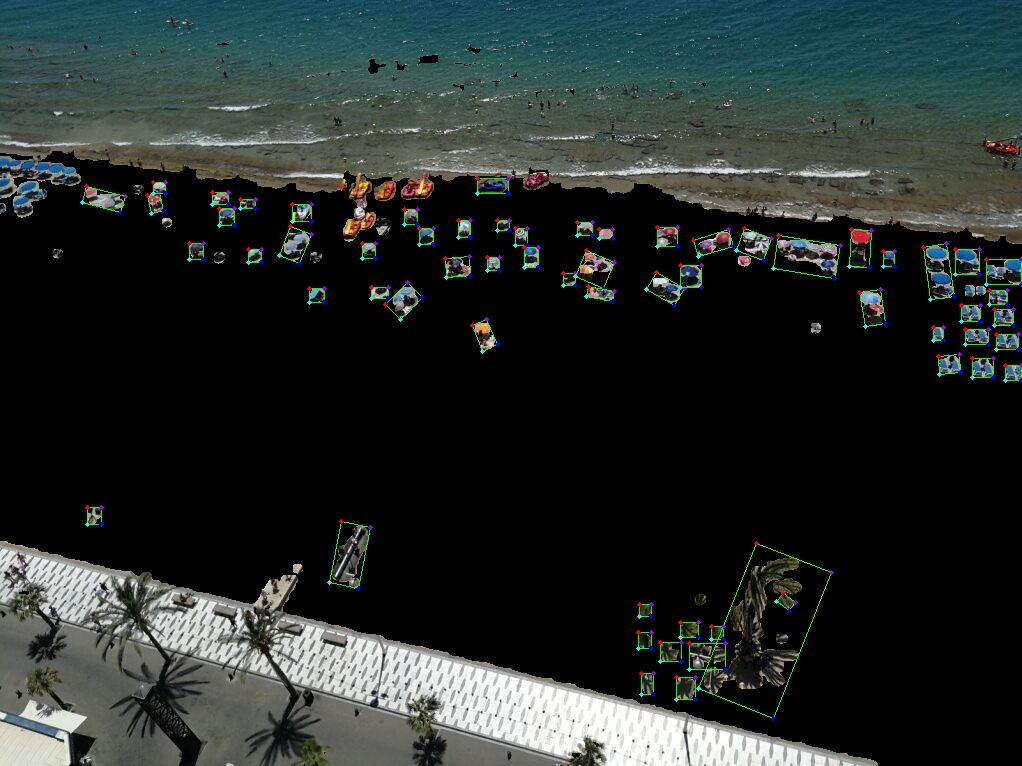
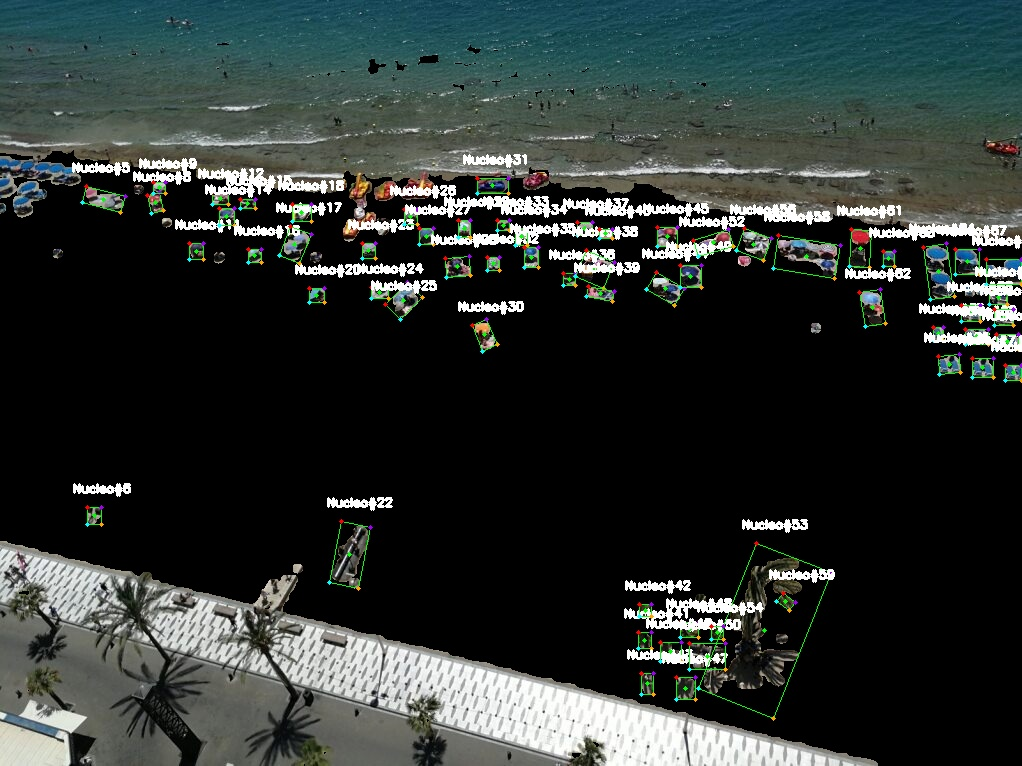
Interfaz

diff --git a/substract_no_centroid.py b/substract_no_centroid.py
@@ -9,6 +9,9 @@ from scipy.spatial import distance as dist
 import PySimpleGUI as sg
 import os
 
+### Global variables for contours
+MIN_CONTOUR_AREA = 100
+MAX_CONTOUR_AREA = 10000
 
 def order_points_old(pts):
     # initialize a list of coordinates that will be ordered
@@ -78,7 +81,7 @@ def get_color_ranges(file):
     }
     return color_ranges.get(file_name, (None, None))
 
-def process_image(file,size,show_object):
+def process_image(file,size,show_object,show_centroid,save_image,show_results):
     # Load image
     img = cv2.imread(file)
     img= cv2.cvtColor(img, cv2.COLOR_BGR2HSV)
@@ -121,13 +124,14 @@ def process_image(file,size,show_object):
     # sort the contours from left-to-right and initialize the bounding box
     # point colors
     (cnts, _) = contours.sort_contours(cnts)
-    colors = ((0, 0, 255), (240, 0, 159), (255, 0, 0), (255, 255, 0))
-
+    #colors = ((0, 0, 255), (240, 0, 159), (255, 0, 0), (255, 255, 0))
+    colors = ((0, 0, 255), (240, 0, 159), (0, 165, 255), (255, 255, 0),
+        (255, 0, 255))
     # loop over the contours individually
     for (i, c) in enumerate(cnts):
         # if the contour is not sufficiently large, ignore it
         print(cv2.contourArea(c))
-        if cv2.contourArea(c) < 100 or cv2.contourArea(c) > 10000:
+        if cv2.contourArea(c) < MIN_CONTOUR_AREA or cv2.contourArea(c) > MAX_CONTOUR_AREA:
             continue
         
         # compute the rotated bounding box of the contour, then
@@ -147,6 +151,14 @@ def process_image(file,size,show_object):
         # box 
         rect = perspective.order_points(box)
 
+        if show_centroid:
+            center_x = int((rect[0][0] + rect[1][0] + rect[2][0] + rect[3][0]) / 4)
+            center_y = int((rect[0][1] + rect[1][1] + rect[2][1] + rect[3][1]) / 4)
+
+            # Dibujar un círculo en el centro
+            cv2.circle(result, (center_x, center_y), 2, (0, 255, 0), -1)
+
+
         # show the re-ordered coordinates
         print(rect.astype("int"))
         print("")
@@ -159,25 +171,25 @@ def process_image(file,size,show_object):
         if show_object:
             # draw the object num at the top-left corner
             size_object = 0.4
-            cv2.putText(result, "Object #{}".format(i + 1),
+            cv2.putText(result, "Nucleo#{}".format(i + 1),
                 (int(rect[0][0] - 15), int(rect[0][1] - 15)),
                 cv2.FONT_HERSHEY_SIMPLEX, size_object, (255, 255, 255), 2)
             # show the image
             # cv2.imshow("Image", result)
             # cv2.waitKey(0)
 
-    
-    cv2.imwrite('beach_thresh.jpg', thresh)
-    cv2.imwrite('beach_morph.jpg', morph)
-    cv2.imwrite('beach_mask.jpg', mask)
-    cv2.imwrite('beach_result.jpg', result)
-
-    cv2.imshow('thresh', thresh)
-    cv2.imshow('morph', morph)
-    cv2.imshow('mask', mask)
-    cv2.imshow('result', result)
-    cv2.waitKey(0)
-    cv2.destroyAllWindows()
+    if save_image:
+        cv2.imwrite('beach_thresh.jpg', thresh)
+        cv2.imwrite('beach_morph.jpg', morph)
+        cv2.imwrite('beach_mask.jpg', mask)
+        cv2.imwrite('beach_result.jpg', result)
+    if show_results:
+        cv2.imshow('thresh', thresh)
+        cv2.imshow('morph', morph)
+        cv2.imshow('mask', mask)
+        cv2.imshow('result', result)
+        cv2.waitKey(0)
+        cv2.destroyAllWindows()
 
 
 
@@ -187,7 +199,10 @@ def main():
         [sg.Text("Selecciona una imagen para procesar")],
         [sg.InputText(key="-FILE-"), sg.FileBrowse()],
         [sg.Text("Tamaño de Morfología:"), sg.InputText(key="-SIZE-", size=(10, 1), default_text="10")],
-        [sg.Checkbox("OBJ", key="-OBJECT-", default=True)],
+        [sg.Checkbox("Mostrar numero nucleo", key="-OBJECT-", default=True)],
+        [sg.Checkbox("Mostrar centroide", key="-CENTROID-", default=True)],
+        [sg.Checkbox("Guardar imagenes", key="-SAVE-", default=True)],
+        [sg.Checkbox("Mostrar imagenes", key="-SHOW-", default=True)],
         [sg.Button("Procesar"), sg.Button("Salir")]
     ]
 
@@ -204,8 +219,11 @@ def main():
             ruta_imagen = values["-FILE-"]
             size = int(values["-SIZE-"]) 
             show_object = values["-OBJECT-"]
+            show_centroid = values["-CENTROID-"]
+            save_image = values["-SAVE-"]
+            show_results = values["-SHOW-"]
             if ruta_imagen:
-                process_image(ruta_imagen,size,show_object)
+                process_image(ruta_imagen,size,show_object,show_centroid,save_image,show_results)
 
     # Cerrar la ventana de la aplicación
     window.close()
